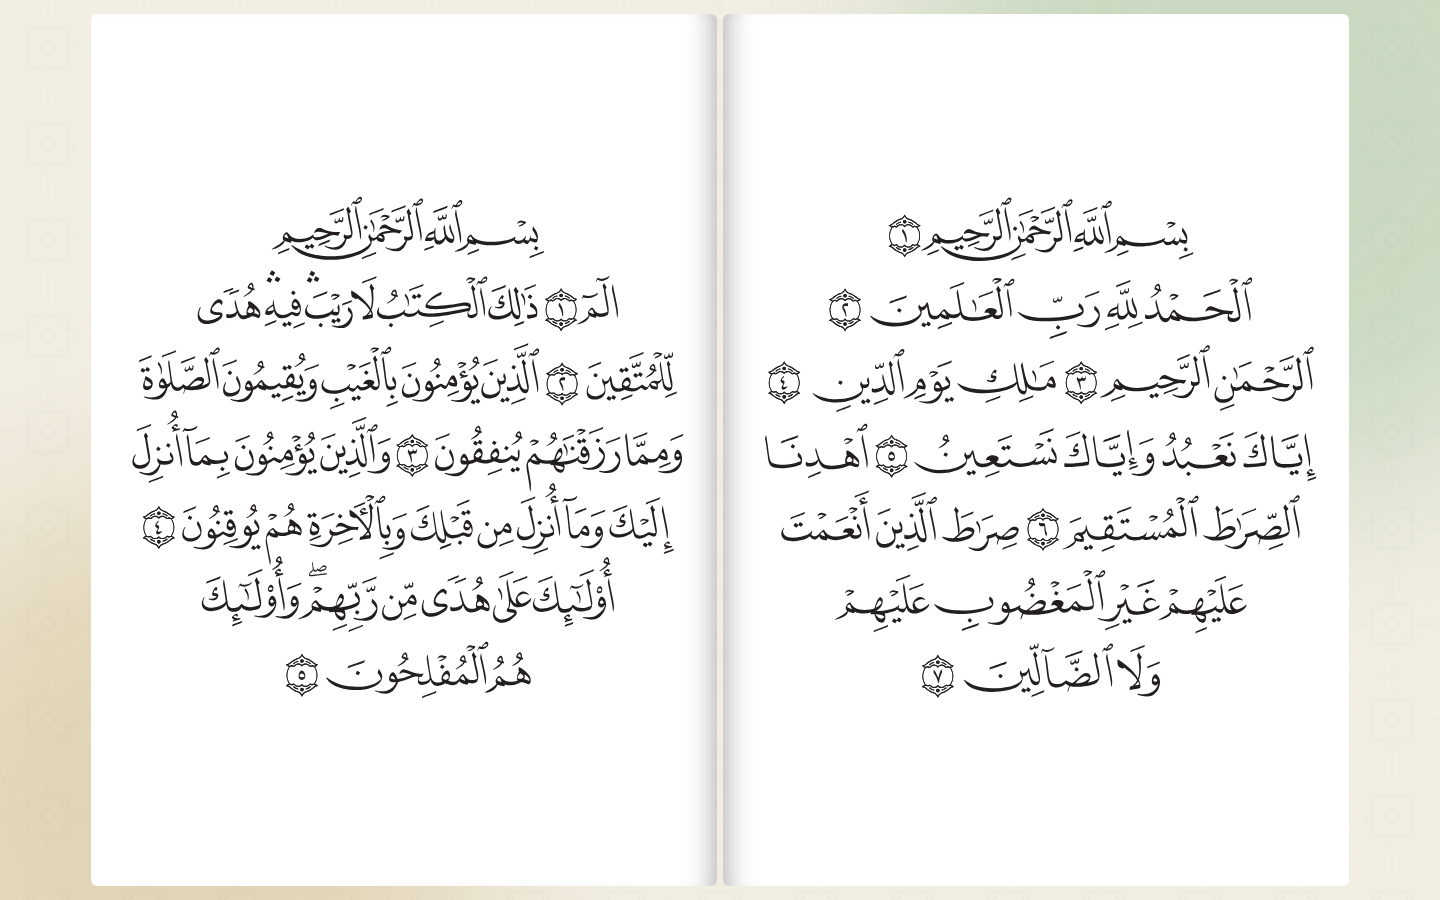
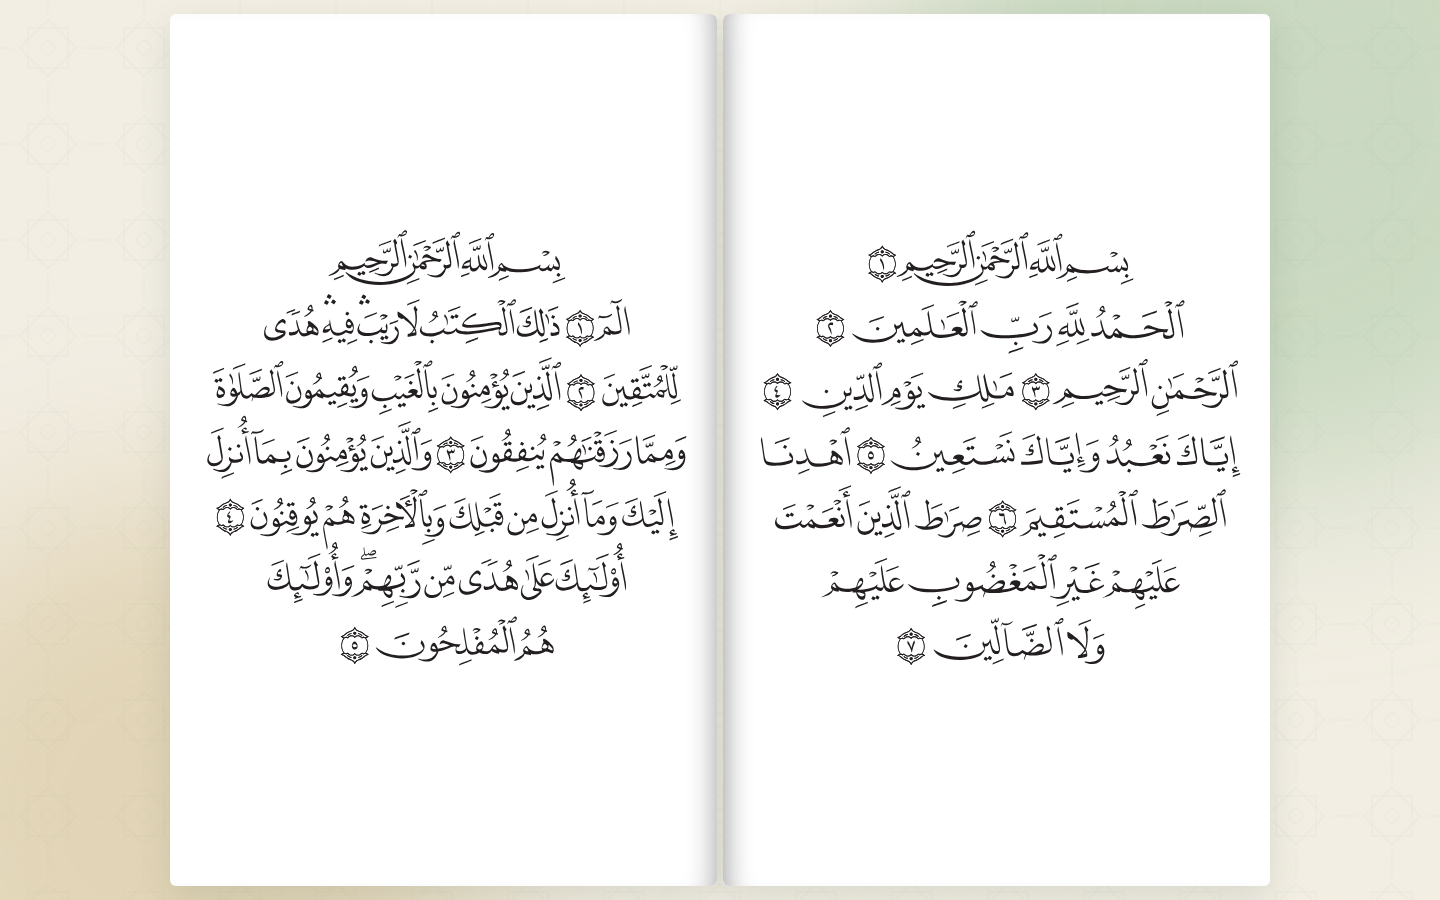
Unified page shape (345:550) for cover and all pages; cover renders as a page

Changed region(s): [[0.0625, 0.0, 0.5, 0.9956], [0.5312, 0.0, 0.9375, 0.9956]]

diff --git a/src/styles/global.css b/src/styles/global.css
@@ -472,16 +472,14 @@ body.mushaf-full #view{flex:1;min-height:0;display:flex;flex-direction:column}
 .mt-center b{font-size:15.5px}
 .mt-center span{font-size:12px;color:var(--ink2);font-variant-numeric:tabular-nums}
 .mt-actions{display:flex;gap:8px;margin-inline-start:auto}
-.mushaf-stage{flex:1;min-height:0;overflow:auto;display:flex;justify-content:center;padding:14px 6.25%}
-.mushaf-stage.cover{padding:14px}
-.mushaf-cover{position:relative;width:100%;height:100%;display:flex;align-items:center;justify-content:center;cursor:pointer;
-  border-radius:10px;overflow:hidden;background:#E2D2A6;border:1px solid rgba(186,151,67,.4);box-shadow:var(--shadow)}
-.mushaf-cover img{max-width:100%;max-height:100%;object-fit:contain;border-radius:10px}
-.mushaf-cover img.broken{display:none}
+.mushaf-stage{flex:1;min-height:0;overflow:auto;display:flex;justify-content:center;align-items:center;padding:14px 6.25%}
 .mc-open{position:absolute;bottom:4%;inset-inline-start:50%;transform:translateX(-50%);box-shadow:var(--shadow2)}
-.mushaf-page{height:100%;display:flex;justify-content:center;background:#fff;border-radius:6px}
+.mushaf-page{height:100%;aspect-ratio:345/550;display:flex;align-items:center;justify-content:center;background:#fff;
+  border-radius:6px;overflow:hidden;box-shadow:var(--shadow)}
+.mushaf-page.cover-page{position:relative;cursor:pointer;background:#E2D2A6;border:1px solid rgba(186,151,67,.4)}
+.mushaf-page.cover-page img{object-fit:cover}
 [data-theme="dark"] .mushaf-page{background:#0D0F12}
-.mushaf-page img{max-height:100%;max-width:100%;object-fit:contain;border-radius:6px;box-shadow:var(--shadow)}
+.mushaf-page img{width:100%;height:100%;object-fit:contain;border-radius:6px}
 [data-theme="dark"] .mushaf-page img{filter:invert(1) hue-rotate(180deg)}
 .mushaf-page img.broken{display:none}
 .mushaf-foot{position:absolute;bottom:0;inset-inline:0;z-index:6;display:flex;align-items:center;justify-content:center;gap:16px;padding:10px;
@@ -490,8 +488,7 @@ body.mushaf-full #view{flex:1;min-height:0;display:flex;flex-direction:column}
 .mf-num{font-size:12.5px;color:var(--ink2);font-variant-numeric:tabular-nums;min-width:86px;text-align:center}
 html[dir="rtl"] .mushaf-foot .ic,html[dir="rtl"] .back-btn .ic{transform:scaleX(-1)}
 .mushaf-stage.book{direction:rtl;gap:6px}
-.mushaf-stage.book .mushaf-page{max-width:calc(50% - 4px)}
-.mushaf-stage.book .mushaf-page{position:relative}
+.mushaf-stage.book .mushaf-page{max-width:calc(50% - 4px);position:relative}
 .mushaf-stage.book .mushaf-page::after{content:"";position:absolute;inset:0;border-radius:6px;pointer-events:none}
 .mushaf-stage.book .mushaf-page:first-child::after{box-shadow:inset 26px 0 30px -26px rgba(0,0,0,.4)}
 .mushaf-stage.book .mushaf-page:last-child::after{box-shadow:inset -26px 0 30px -26px rgba(0,0,0,.4)}
@@ -514,7 +511,6 @@ html[dir="rtl"] .mushaf-foot .ic,html[dir="rtl"] .back-btn .ic{transform:scaleX(
   .mushaf-top{padding:8px 10px;gap:8px}
   .mt-actions .icon-btn{width:36px;height:36px}
   .mushaf-stage{padding:8px 4%}
-  .mushaf-stage.cover{padding:8px}
   .mushaf-foot{gap:10px;padding:8px}
   .mushaf-foot .btn span{display:none}
   .mf-num{min-width:64px}

diff --git a/src/scripts/app.js b/src/scripts/app.js
@@ -428,8 +428,8 @@ function mushafCoverHTML(){
   const last=S.mushafLast||S.mushafPage;
   const lbl=last>1?`${t('continueReading')} — ${t('page')} ${S.lang==='ar'?arDigits(last):last}`:t('startReading');
   return `<div class="mushaf-wrap">
-    <div class="mushaf-stage cover">
-      <div class="mushaf-cover" data-act="mushafopen">
+    <div class="mushaf-stage">
+      <div class="mushaf-page cover-page" data-act="mushafopen">
         <img src="/mushaf-cover.jpg" alt="${t('quranName')}" onerror="this.classList.add('broken')">
         <button class="btn gold mc-open" data-act="mushafopen">${lbl}</button>
       </div>
@@ -702,7 +702,7 @@ $('.np-overlay').addEventListener('click',e=>{
 });
 $('#view').addEventListener('click',async e=>{
   const stg=e.target.closest('.mushaf-stage');
-  if(stg&&!e.target.closest('button')&&!e.target.closest('.mushaf-cover')){const w=$('#view .mushaf-wrap');if(w)mushafBarsUI(!w.classList.contains('bars'));return}
+  if(stg&&!e.target.closest('button')&&!e.target.closest('.cover-page')){const w=$('#view .mushaf-wrap');if(w)mushafBarsUI(!w.classList.contains('bars'));return}
   const rdB=e.target.closest('[data-read]');if(rdB){mushafGo(+rdB.dataset.read);return}
   const favB=e.target.closest('[data-fav]');if(favB){const tr=findTrackByKey(favB.dataset.fav);if(tr)toggleFav(tr);return}
   const unfavB=e.target.closest('[data-unfav]');if(unfavB){const tr=findTrackByKey(unfavB.dataset.unfav);if(tr)toggleFav(tr);return}
